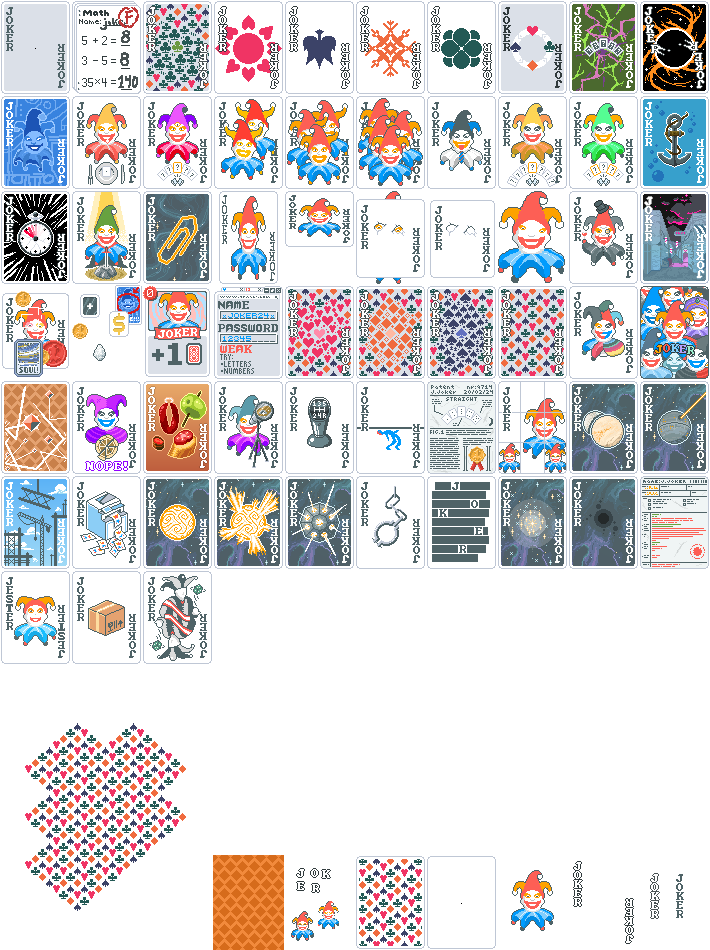
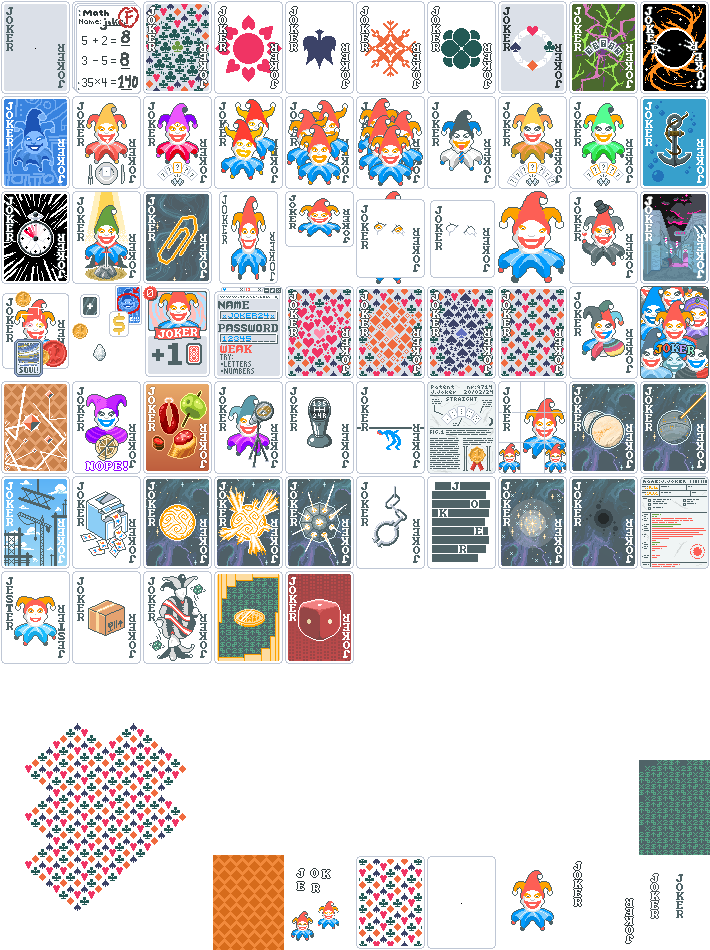
Add Coin Toss

Changed region(s): [[0.2789, 0.58, 0.4958, 0.7021], [0.8986, 0.7937, 1.0, 0.9158]]

diff --git a/web/addjokers.js b/web/addjokers.js
@@ -505,6 +505,14 @@ let jokers = [
     image_url: "img/j/gambler.png",
     rarity: "Common"
   },
+  {
+    name: "Coin Toss",
+    text: [
+      "When {C:attention}High Card{} is played, {C:attention}double{} sell value but {C:green}1 in 2{} chance to {C:red}self destruct{}",
+    ],
+    image_url: "img/j/coin_toss.png",
+    rarity: "Common"
+  },
 
   // {
   //   name: "",
